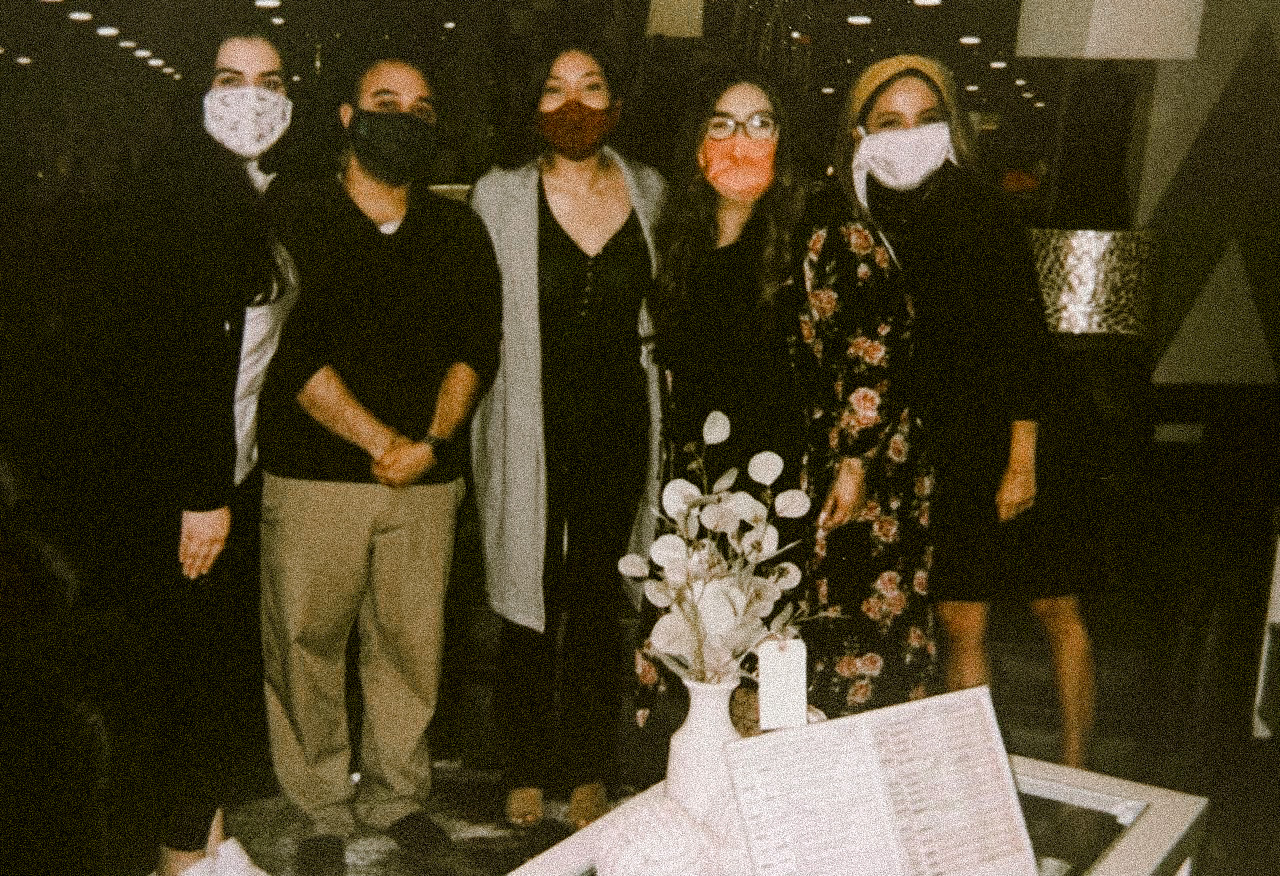
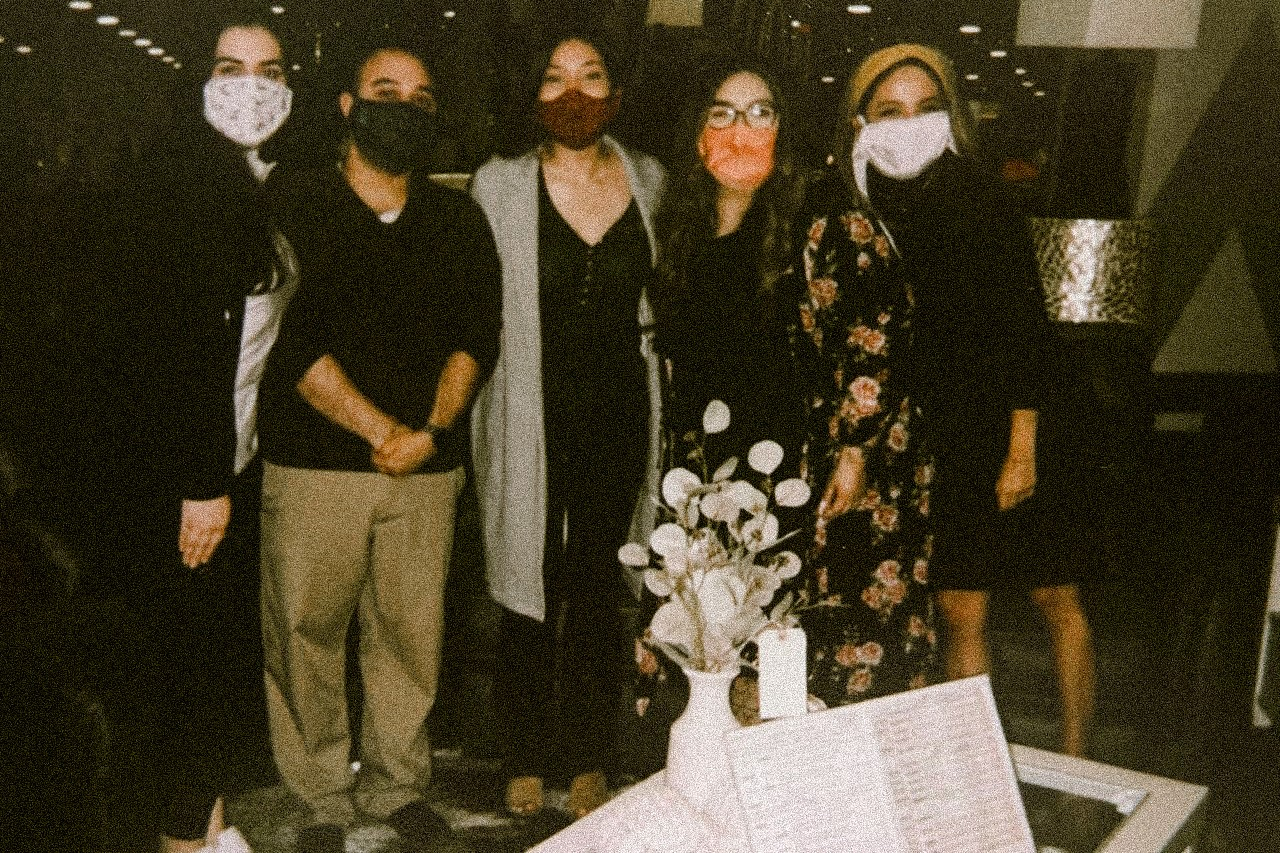
fixed image sizes to be uniform in carousel

diff --git a/about.html b/about.html
@@ -50,11 +50,6 @@
 
 
       <div id="carouselExampleIndicators" class="carousel slide" data-ride="carousel">
-        <ol class="carousel-indicators">
-          <li data-target="#carouselExampleIndicators" data-slide-to="0" class="active"></li>
-          <li data-target="#carouselExampleIndicators" data-slide-to="1"></li>
-          <li data-target="#carouselExampleIndicators" data-slide-to="2"></li>
-        </ol>
         <div class="carousel-inner">
           <div class="carousel-item active">
             <img class="d-block w-100" src="/img/IMG-1827.jpg" alt="First slide">
@@ -63,37 +58,16 @@
             <img class="d-block w-100" src="/img/GOPR0066.JPG" alt="Second slide">
           </div>
           <div class="carousel-item">
-            <img class="d-block w-100" src="/img/IMG-1719.jpg" alt="Third slide">
+            <img class="d-block w-100" src="/img/IMG-6118.jpg" alt="Fifth slide">
           </div>
           <div class="carousel-item">
-            <img class="d-block w-100" src="/img/IMG-0826.jpg" alt="Fourth slide">
+            <img class="d-block w-100" src="/img/IMG-1584.JPG" alt="Sixth slide">
           </div>
           <div class="carousel-item">
-            <img class="d-block w-100" src="/img/IMG-0950.jpg" alt="Fifth slide">
+            <img class="d-block w-100" src="/img/unnamed.jpg" alt="Eighth slide">
           </div>
           <div class="carousel-item">
-            <img class="d-block w-100" src="/img/IMG-0976.jpg" alt="Sixth slide">
-          </div>
-          <div class="carousel-item">
-            <img class="d-block w-100" src="/img/IMG-6118.jpg" alt="Seventh slide">
-          </div>
-          <div class="carousel-item">
-            <img class="d-block w-100" src="/img/IMG-1584.JPG" alt="Eighth slide">
-          </div>
-          <div class="carousel-item">
-            <img class="d-block w-100" src="/img/IMG-3050.jpg" alt="Ninth slide">
-          </div>
-          <div class="carousel-item">
-            <img class="d-block w-100" src="/img/IMG-7289.jpg" alt="Tenth slide">
-          </div>
-          <div class="carousel-item">
-            <img class="d-block w-100" src="/img/unnamed.jpg" alt="Eleventh slide">
-          </div>
-          <div class="carousel-item">
-            <img class="d-block w-100" src="/img/unnamed (1).jpg" alt="Twelveth slide">
-          </div>
-          <div class="carousel-item">
-            <img class="d-block w-100" src="/img/IMG-1793.jpg" alt="Thirtheenth slide">
+            <img class="d-block w-100" src="/img/unnamed (1).jpg" alt="Ninth slide">
           </div>
         </div>
         <a class="carousel-control-prev" href="#carouselExampleIndicators" role="button" data-slide="prev">
@@ -106,6 +80,14 @@
         </a>
       </div>
 
+
+
+      <div class="content">
+        <h1>this is me.</h1>
+        <p>
+          This is Leslie's life story and it will be very well written
+        </p>
+      </div>
 
 
 

diff --git a/styles/stylesheet.css b/styles/stylesheet.css
@@ -23,3 +23,8 @@
     font-size: 24px;
     text-align: center;
 }
+
+.content{
+    height: 95%;
+}
+
